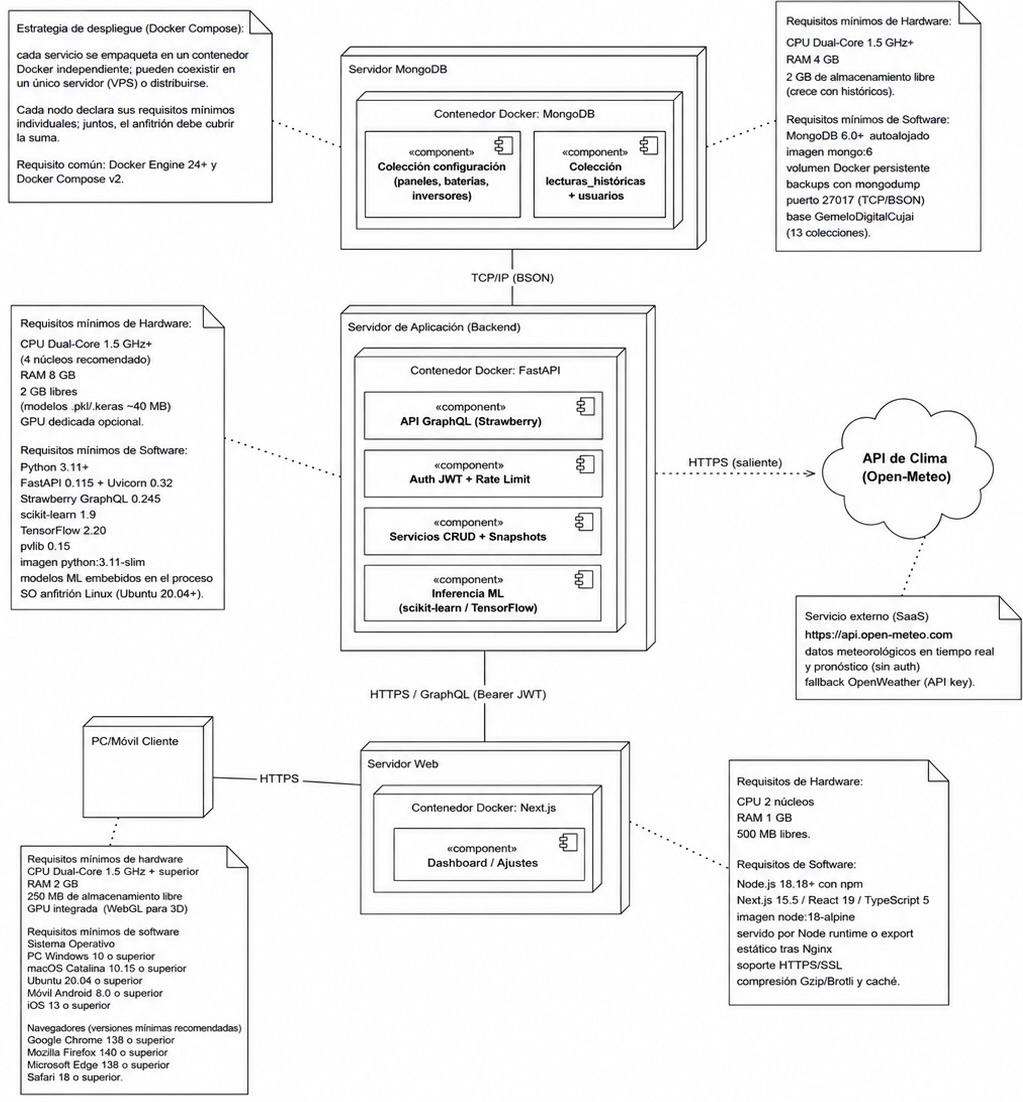
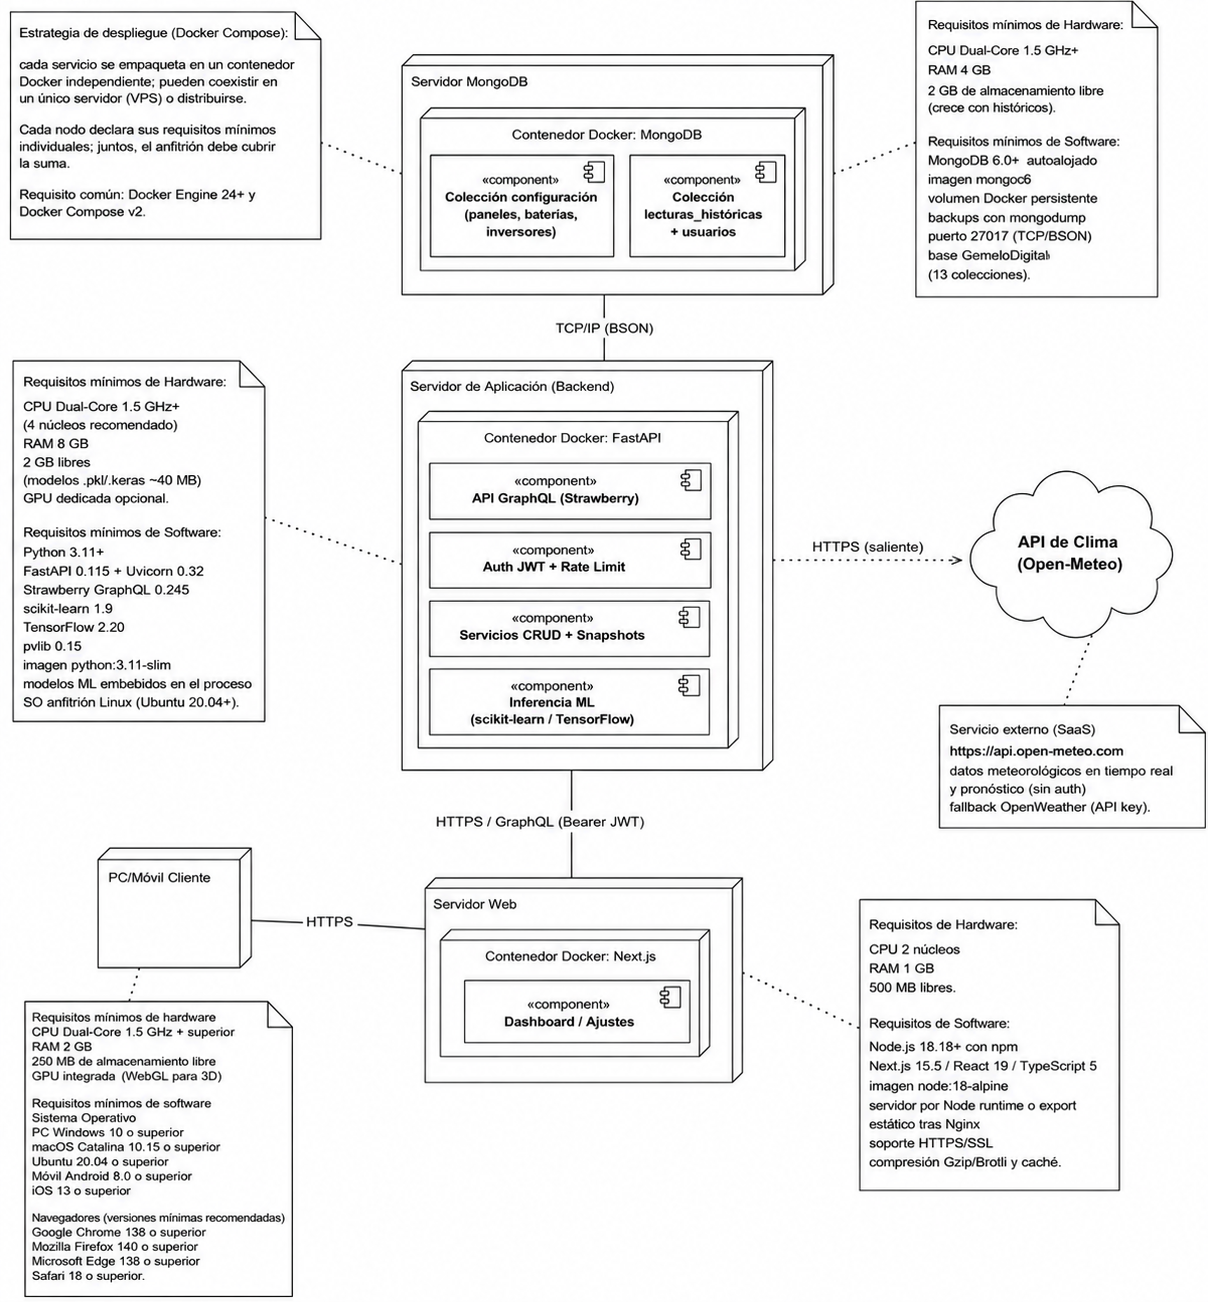
refactor: update references to Random Forest model in thesis documentation
- Replaced mentions of "bosque aleatorio" with "Random Forest" for consistency across multiple sections, including the introduction, chapters on system architecture, machine learning models, and case studies.
- Adjusted formatting and clarified descriptions related to the model's implementation and performance metrics.
- Minor edits to improve overall clarity and coherence in the thesis documentation.

These changes enhance the precision of the terminology used in the thesis, ensuring a uniform understanding of the Random Forest model throughout the document.

diff --git a/tesis/capitulo3/subcapitulo2_solar.md b/tesis/capitulo3/subcapitulo2_solar.md
@@ -6,27 +6,27 @@ Los modelos se evalúan sobre conjuntos de prueba separados de los de entrenamie
 
 Antes de evaluarlos conviene describir cómo se construyen los cuatro modelos del gemelo, pues las condiciones de entrenamiento condicionan la lectura de sus resultados.
 
-El modelo de generación, *Havana v1*, es un bosque aleatorio entrenado con el dataset de La Habana. La variable objetivo es el **factor de capacidad** (un valor adimensional entre 0 y 1), de modo que el mismo modelo sirve a cualquier tamaño de instalación: en operación, la predicción se multiplica por la capacidad instalada leída de la base de datos. El modelo usa **14 características** en tres grupos: cinco climáticas directas (radiación de onda corta, nubosidad, temperatura, humedad y viento); cinco físicas derivadas con pvlib (radiación de cielo despejado, índice de claridad, elevación solar, irradiancia efectiva atenuada por nubosidad y un factor de pérdida por temperatura de −0,4 % por grado sobre los 25 °C de referencia); y cuatro temporales cíclicas (seno y coseno de la hora y del mes) [@pvlib2024docs; @almarzooqi2024hybrid]. Esta ingeniería de características se concentra en un único módulo compartido entre el entrenamiento y la inferencia, lo que elimina por construcción cualquier discrepancia entre ambos contextos (*train/serve skew*). La partición es estrictamente cronológica: 2010–2014 para entrenamiento (42 067 muestras) y 2015 para validación (10 517 muestras), de modo que el modelo predice siempre sobre fechas posteriores a las de entrenamiento [@trull2025folsom].
+El modelo de generación, *Havana v1*, es un Random Forest entrenado con el dataset de La Habana. La variable objetivo es el **factor de capacidad** (un valor adimensional entre 0 y 1), de modo que el mismo modelo sirve a cualquier tamaño de instalación: en operación, la predicción se multiplica por la capacidad instalada leída de la base de datos. El modelo usa **14 características** en tres grupos: cinco climáticas directas (radiación de onda corta, nubosidad, temperatura, humedad y viento); cinco físicas derivadas con pvlib (radiación de cielo despejado, índice de claridad, elevación solar, irradiancia efectiva atenuada por nubosidad y un factor de pérdida por temperatura de −0,4 % por grado sobre los 25 °C de referencia); y cuatro temporales cíclicas (seno y coseno de la hora y del mes) [@pvlib2024docs; @almarzooqi2024hybrid]. Esta ingeniería de características se concentra en un único módulo compartido entre el entrenamiento y la inferencia, lo que elimina por construcción cualquier discrepancia entre ambos contextos (*train/serve skew*). La partición es estrictamente cronológica: 2010–2014 para entrenamiento (42 067 muestras) y 2015 para validación (10 517 muestras), de modo que el modelo predice siempre sobre fechas posteriores a las de entrenamiento [@trull2025folsom].
 
-La predicción del consumo se resuelve en el despliegue actual con un algoritmo de perfiles horarios configurables —una curva de consumo por hora para los días lectivos y otra para los fines de semana, ajustadas por un modelo de confianza que penaliza las horas de mayor variabilidad—, una estrategia de arranque en frío adecuada al volumen de datos disponible [@khan2026energyconsumption]. En paralelo se entrenó un bosque aleatorio de consumo con los registros de un medidor del campus, que queda disponible para activarse cuando se acumule un histórico representativo de la propia microrred. La estimación de autonomía, por su parte, no es un modelo entrenado, sino una simulación horaria que reutiliza los dos anteriores y la física del almacenamiento.
+La predicción del consumo se resuelve en el despliegue actual con un algoritmo de perfiles horarios configurables —una curva de consumo por hora para los días lectivos y otra para los fines de semana, ajustadas por un modelo de confianza que penaliza las horas de mayor variabilidad—, una estrategia de arranque en frío adecuada al volumen de datos disponible [@khan2026energyconsumption]. En paralelo se entrenó un Random Forest de consumo con los registros de un medidor del campus, que queda disponible para activarse cuando se acumule un histórico representativo de la propia microrred. La estimación de autonomía, por su parte, no es un modelo entrenado, sino una simulación horaria que reutiliza los dos anteriores y la física del almacenamiento.
 
 El clasificador de limpieza es una red MobileNetV2 preentrenada en ImageNet sobre la que se aplica aprendizaje por transferencia: se congela el extractor de características y se entrena solo una cabeza binaria [@sandler2018mobilenetv2; @pan2010transfer]. Todos los modelos se serializan y se cargan al inicio del servicio; los notebooks de entrenamiento, versionados en Git con dependencias fijadas, reproducen exactamente las transformaciones que ejecuta el backend en producción, de modo que el reentrenamiento periódico resulte reproducible.
 
 ### Predicción de la generación solar
 
-El modelo de generación *Havana v1* se evalúa sobre el conjunto de prueba de 2015 (10 517 muestras), posterior a las fechas de entrenamiento; la partición cronológica estricta evita la fuga temporal y hace que el error medido sea una cota conservadora del real [@trull2025folsom]. La elección del bosque aleatorio se apoya en una comparación frente a una regresión lineal, como línea base, y un HistGradient Boosting, evaluada solo sobre las horas de luz para no inflar el R² con las horas nocturnas de producción nula (Figura \ref{fig:comparacion-solar} y Tabla \ref{tbl:comparacion-solar}).
+El modelo de generación *Havana v1* se evalúa sobre el conjunto de prueba de 2015 (10 517 muestras), posterior a las fechas de entrenamiento; la partición cronológica estricta evita la fuga temporal y hace que el error medido sea una cota conservadora del real [@trull2025folsom]. La elección del Random Forest se apoya en una comparación frente a una regresión lineal, como línea base, y un HistGradient Boosting, evaluada solo sobre las horas de luz para no inflar el R² con las horas nocturnas de producción nula (Figura \ref{fig:comparacion-solar} y Tabla \ref{tbl:comparacion-solar}).
 
 ![Comparación de modelos de predicción solar (horas de día).](comparacion_modelos_solar.png){#fig:comparacion-solar width=85%}
 
 | Modelo | R² (día) | nRMSE (día) | nMAE (día) |
 |---|---|---|---|
 | Regresión lineal (línea base) | 0,754 | 12,4 % | 8,8 % |
-| **Bosque aleatorio** (seleccionado) | **0,789** | **11,4 %** | **7,5 %** |
+| **Random Forest** (seleccionado) | **0,789** | **11,4 %** | **7,5 %** |
 | HistGradient Boosting | 0,785 | 11,6 % | 7,5 % |
 
 : Comparación de modelos sobre el conjunto de prueba, horas de día. nRMSE y nMAE como porcentaje de la capacidad nominal. {#tbl:comparacion-solar}
 
-Los tres modelos convergen a valores muy parecidos, lo que indica que el límite de precisión lo impone la fuente de datos —la diferencia entre la radiación de Open-Meteo y la producción de PVGIS— y no el algoritmo. Ante esa convergencia se elige el bosque aleatorio por alcanzar el mayor R² diurno (0,789) y por su robustez frente a datos ruidosos y su menor necesidad de ajuste [@breiman2001randomforests]. Sobre el conjunto de prueba alcanza un R² global de 0,8989, es decir, explica cerca del 90 % de la varianza; en las horas con utilidad operativa, el R² diurno es de 0,7895, el nRMSE del 11,4 % y el nMAE del 7,5 % de la capacidad nominal, valores dentro del rango que reporta la literatura para estos métodos con separación cronológica [@leholo2026slrsolar; @taha2025zafarana].
+Los tres modelos convergen a valores muy parecidos, lo que indica que el límite de precisión lo impone la fuente de datos —la diferencia entre la radiación de Open-Meteo y la producción de PVGIS— y no el algoritmo. Ante esa convergencia se elige el Random Forest por alcanzar el mayor R² diurno (0,789) y por su robustez frente a datos ruidosos y su menor necesidad de ajuste [@breiman2001randomforests]. Sobre el conjunto de prueba alcanza un R² global de 0,8989, es decir, explica cerca del 90 % de la varianza; en las horas con utilidad operativa, el R² diurno es de 0,7895, el nRMSE del 11,4 % y el nMAE del 7,5 % de la capacidad nominal, valores dentro del rango que reporta la literatura para estos métodos con separación cronológica [@leholo2026slrsolar; @taha2025zafarana].
 
 La Figura \ref{fig:importance-solar} muestra la importancia de las características: domina la irradiancia de onda corta, seguida del índice de claridad y la elevación solar. Esta jerarquía coincide con la física del fenómeno —la potencia es casi proporcional a la radiación, modulada por la posición del sol y la transparencia de la atmósfera—, lo que constituye un indicio cualitativo de validez añadido a las métricas [@trull2025folsom].
 

diff --git a/tesis/capitulo2/subcapitulo1_arquitectura_sistema.md b/tesis/capitulo2/subcapitulo1_arquitectura_sistema.md
@@ -4,12 +4,12 @@ El sistema propuesto es un gemelo digital web que representa de forma virtual y 
 
 Para ello el sistema se organiza en cuatro módulos. El de adquisición y gestión de datos integra y almacena la telemetría de la microrred (generación, consumo, estado de carga y flujos de energía) junto con los datos meteorológicos de un servicio externo. El de analítica reúne los cuatro modelos de inteligencia artificial. El de simulación y servicios de dominio combina datos, pronósticos y configuración para producir las líneas de tiempo de producción y demanda, las estimaciones de autonomía y las alertas. Y el de interfaz web presenta todo ello en un tablero comprensible para operadores, docentes y estudiantes. Separar el sistema en módulos permite que cada uno evolucione por su cuenta y que se incorporen nuevas fuentes o modelos sin rehacer el conjunto [@said2026aidt].
 
-El módulo de analítica integra los cuatro modelos que resume la Tabla \ref{tbl:modelos-ia}, cuyo entrenamiento y evaluación se abordan en el Capítulo 3. La predicción de la generación fotovoltaica usa un bosque aleatorio, denominado *Havana v1*, entrenado con datos históricos de La Habana; predice el factor de capacidad, un valor entre 0 y 1, para que el mismo modelo sirva a cualquier tamaño de instalación, e incorpora variables físicas calculadas con pvlib [@breiman2001randomforests; @pvlib2024docs]. La predicción del consumo se resuelve en el despliegue actual con perfiles horarios configurables, una estrategia de arranque en frío adecuada al volumen de datos disponible, y deja entrenado un bosque aleatorio listo para activarse cuando se acumule histórico propio [@khan2026energyconsumption]. La estimación de autonomía no usa aprendizaje automático: simula hora a hora el balance energético y la física del almacenamiento para calcular cuánto tiempo puede operar la microrred de forma autónoma. Y la clasificación de limpieza emplea una red neuronal convolucional MobileNetV2 con aprendizaje por transferencia [@sandler2018mobilenetv2].
+El módulo de analítica integra los cuatro modelos que resume la Tabla \ref{tbl:modelos-ia}, cuyo entrenamiento y evaluación se abordan en el Capítulo 3. La predicción de la generación fotovoltaica usa un Random Forest, denominado *Havana v1*, entrenado con datos históricos de La Habana; predice el factor de capacidad, un valor entre 0 y 1, para que el mismo modelo sirva a cualquier tamaño de instalación, e incorpora variables físicas calculadas con pvlib [@breiman2001randomforests; @pvlib2024docs]. La predicción del consumo se resuelve en el despliegue actual con perfiles horarios configurables, una estrategia de arranque en frío adecuada al volumen de datos disponible, y deja entrenado un Random Forest listo para activarse cuando se acumule histórico propio [@khan2026energyconsumption]. La estimación de autonomía no usa aprendizaje automático: simula hora a hora el balance energético y la física del almacenamiento para calcular cuánto tiempo puede operar la microrred de forma autónoma. Y la clasificación de limpieza emplea una red neuronal convolucional MobileNetV2 con aprendizaje por transferencia [@sandler2018mobilenetv2].
 
 | Modelo | Algoritmo | Variable objetivo | Entrada principal |
 |---|---|---|---|
-| Generación (*Havana v1*) | Bosque aleatorio | Factor de capacidad (0–1) | 14 características climáticas y físicas |
-| Consumo | Perfiles horarios (bosque aleatorio disponible) | Demanda eléctrica (kW) | Perfiles por hora y tipo de día |
+| Generación (*Havana v1*) | Random Forest | Factor de capacidad (0–1) | 14 características climáticas y físicas |
+| Consumo | Perfiles horarios (Random Forest disponible) | Demanda eléctrica (kW) | Perfiles por hora y tipo de día |
 | Autonomía | Simulación física | Tiempo hasta el SoC mínimo | Pronósticos de generación y consumo |
 | Limpieza | MobileNetV2 (CNN) | Limpio / sucio | Imagen de 224×224 px |
 
@@ -129,6 +129,6 @@ Para no extender el capítulo no se describen los nueve casos de uso, sino solo 
 
 : Caso de uso CU-06 — Gestionar generación de energía. {#tbl:cu06}
 
-Para ilustrar cómo funciona el sistema por dentro, la Figura \ref{fig:actividades} muestra el diagrama de actividades del caso «Consultar generación de energía», que coordina al operador, al sistema y a la fuente de clima. El operador indica el rango de tiempo; el sistema comprueba la conexión y, si la hay, obtiene los datos meteorológicos, consulta la capacidad instalada en la colección de paneles, ejecuta el modelo de bosque aleatorio para predecir la generación y muestra el resultado. Este flujo resume el patrón que siguen, con variantes, el resto de las consultas del gemelo.
+Para ilustrar cómo funciona el sistema por dentro, la Figura \ref{fig:actividades} muestra el diagrama de actividades del caso «Consultar generación de energía», que coordina al operador, al sistema y a la fuente de clima. El operador indica el rango de tiempo; el sistema comprueba la conexión y, si la hay, obtiene los datos meteorológicos, consulta la capacidad instalada en la colección de paneles, ejecuta el modelo de Random Forest para predecir la generación y muestra el resultado. Este flujo resume el patrón que siguen, con variantes, el resto de las consultas del gemelo.
 
 ![Diagrama de actividades del caso de uso «Consultar generación de energía».](../recursos/figuras/fig7_diagrama_actividades.png){#fig:actividades width=100%}

diff --git a/tesis/index.md b/tesis/index.md
@@ -61,11 +61,11 @@ header-includes: |
   \pagestyle{plain}
   \makeatletter
   \renewcommand{\@makechapterhead}[1]{%
-    \vspace*{-14pt}{\parindent\z@\raggedright\normalfont
+    \vspace*{-58pt}{\parindent\z@\raggedright\normalfont
       \ifnum\c@secnumdepth>\m@ne\huge\bfseries\@chapapp\space\thechapter\par\nobreak\vskip 16\p@\fi
       \interlinepenalty\@M\Huge\bfseries #1\par\nobreak\vskip 26\p@}}
   \renewcommand{\@makeschapterhead}[1]{%
-    \vspace*{-14pt}{\parindent\z@\raggedright\normalfont
+    \vspace*{-58pt}{\parindent\z@\raggedright\normalfont
       \interlinepenalty\@M\Huge\bfseries #1\par\nobreak\vskip 26\p@}}
   \makeatother
 ---

diff --git a/tesis/capitulo1/subcapitulo4_inteligencia_artificial.md b/tesis/capitulo1/subcapitulo4_inteligencia_artificial.md
@@ -11,7 +11,7 @@ La elección depende del horizonte de predicción, del volumen de datos y de los
 | Algoritmo | Familia | Uso en el gemelo | Característica clave |
 |---|---|---|---|
 | Árbol de decisión | Base | Bloque de los métodos de ensemble | Interpretable, pero propenso al sobreajuste |
-| Bosque aleatorio | Ensemble (*bagging*) | Predicción de generación y de consumo | Robusto; buen equilibrio exactitud–costo |
+| Random Forest | Ensemble (*bagging*) | Predicción de generación y de consumo | Robusto; buen equilibrio exactitud–costo |
 | Potenciación por gradiente (XGBoost) | Ensemble (*boosting*) | Alternativa de referencia | Alta exactitud; requiere más ajuste |
 | Redes neuronales profundas | Aprendizaje profundo | Alternativa de referencia | Modelan relaciones complejas; más datos y cómputo |
 | MobileNetV2 (CNN, *transfer learning*) | Aprendizaje profundo (visión) | Clasificación de limpieza de paneles | Ligera; equilibrio exactitud–inferencia |

diff --git a/tesis/capitulo2/subcapitulo3_modelos_ml.md b/tesis/capitulo2/subcapitulo3_modelos_ml.md
@@ -10,7 +10,7 @@ El servicio de fuentes de clima integra proveedores meteorológicos con formatos
 
 ### Strategy (GoF)
 
-La predicción de producción admite algoritmos intercambiables tras una misma interfaz (Figura \ref{fig:strategy}): una estrategia física, basada en radiación, temperatura y nubosidad, y una estrategia de aprendizaje automático, el bosque aleatorio. El servicio opera sobre la abstracción, lo que permite comparar ambos enfoques y validar el modelo frente a la referencia física sin afectar al resto del sistema.
+La predicción de producción admite algoritmos intercambiables tras una misma interfaz (Figura \ref{fig:strategy}): una estrategia física, basada en radiación, temperatura y nubosidad, y una estrategia de aprendizaje automático, el Random Forest. El servicio opera sobre la abstracción, lo que permite comparar ambos enfoques y validar el modelo frente a la referencia física sin afectar al resto del sistema.
 
 ![Patrón Strategy en la predicción de producción solar.](../recursos/figuras/fig17_patron_strategy.png){#fig:strategy width=95%}
 

diff --git a/tesis/capitulo3/subcapitulo5_caso_cujae.md b/tesis/capitulo3/subcapitulo5_caso_cujae.md
@@ -4,7 +4,7 @@ Más allá de las pruebas, el sistema se ejecutó sobre la microrred de la CUJAE
 
 ![Tablero principal con el flujo energético, los indicadores de generación y el panel meteorológico.](../recursos/figuras/fig2_dashboard_generacion.png){#fig:dash-gen width=95%}
 
-El gráfico de producción frente a consumo (Figura \ref{fig:graf-gc}) superpone la generación prevista por el bosque aleatorio y la demanda estimada, con la energía diaria y el balance neto, lo que permite anticipar desajustes y picos antes de que ocurran. El panel meteorológico (Figura \ref{fig:clima}) integra las condiciones actuales y el pronóstico de Open-Meteo con la producción estimada para cada día.
+El gráfico de producción frente a consumo (Figura \ref{fig:graf-gc}) superpone la generación prevista por el Random Forest y la demanda estimada, con la energía diaria y el balance neto, lo que permite anticipar desajustes y picos antes de que ocurran. El panel meteorológico (Figura \ref{fig:clima}) integra las condiciones actuales y el pronóstico de Open-Meteo con la producción estimada para cada día.
 
 ![Predicción de producción fotovoltaica frente a consumo, con las métricas de energía y balance.](../recursos/figuras/fig3_grafico_generacion_consumo.png){#fig:graf-gc width=80%}
 

diff --git a/tesis/introduccion/introduccion.md b/tesis/introduccion/introduccion.md
@@ -26,7 +26,7 @@ Para comprobarla se define como **objetivo general** desarrollar un gemelo digit
     - Comparar las soluciones afines existentes, académicas y comerciales. *(Ambos.)*
     - Seleccionar las tecnologías de software adecuadas para el sistema. *(Fabián, backend y modelos; Rubén, frontend y visualización.)*
 
-2. Diseñar la solución de software del gemelo digital para una microrred fotovoltaica aislada, con su arquitectura, su modelo de datos y sus interfaces.
+2. Desarrollar la solución de software del gemelo digital para una microrred fotovoltaica aislada, con su arquitectura, su modelo de datos y sus interfaces.
 
     - Definir los requisitos funcionales y no funcionales y los casos de uso del sistema. *(Ambos.)*
     - Diseñar la arquitectura de software, con la separación entre el backend y el frontend. *(Fabián, vista backend; Rubén, vista frontend.)*